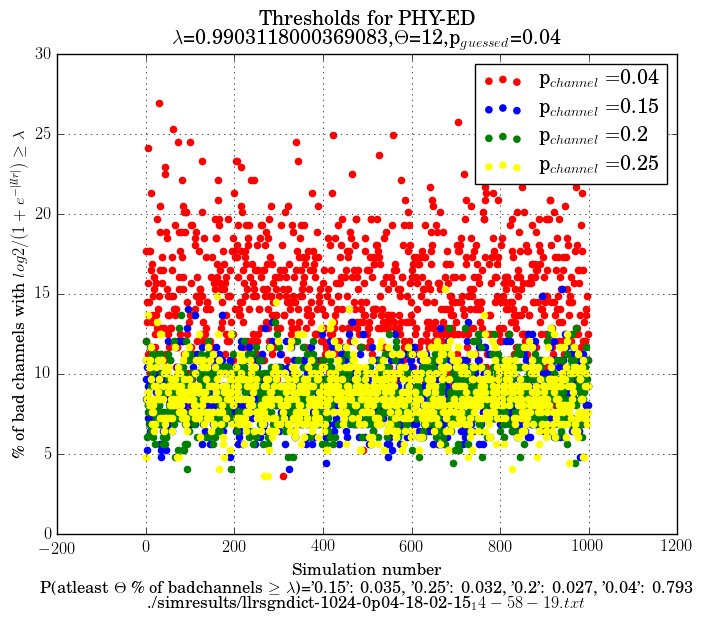
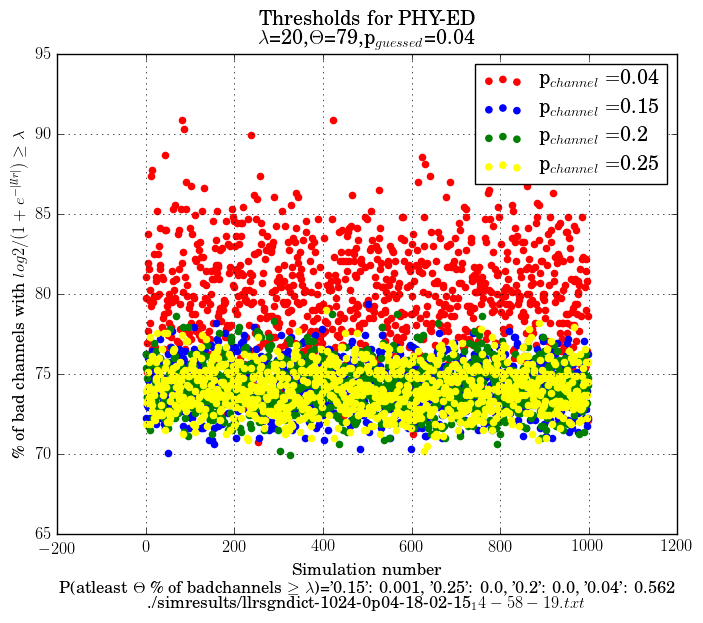
daily-autogit

diff --git a/Polar-slepian/V_15/lambdathreshold.py b/Polar-slepian/V_15/lambdathreshold.py
@@ -263,7 +263,32 @@ def perc_channel_Irv_WU(LLRdict,channel_plist,N,LT,G,runsim,use_bad,use_func_for
 			Fdict[str(channel_p)].append(float(num_channel)*100/len(LLRchannels))
 		
 	return Fdict
-
+#general function
+def perc_channel_func_Irv_WU(LLRdict,channel_plist,N,LT,G,runsim,f_llr,use_bad,use_func_for_LT):
+	#as I is a subsequence of RI , only G is needed
+	if use_func_for_LT:
+		LT=f_llr(LT)
+		print LT
+		
+	Fdict={}
+	for channel_p in channel_plist:
+		print "\nrunning for "+str(channel_p)+"..."
+		
+		Fdict[str(channel_p)]=[]	
+		for i in range(runsim):
+			if use_bad:
+				LLRchannels=LLRdict[str(channel_p)][i][0][G:]
+				SentBitchannels=LLRdict[str(channel_p)][i][1][G:]
+				#print SentBitchannels
+			else:
+				LLRchannels=LLRdict[str(channel_p)][i][0][:G]
+				SentBitchannels=LLRdict[str(channel_p)][i][1][:G]
+				
+			#num_channel=sum(f_Irv_abs(abs(llr)) >= LT for llr in LLRchannels)
+			num_channel=sum(f_llr(llr,int(sentbit)) >= LT for llr,sentbit in zip(LLRchannels,SentBitchannels))
+			Fdict[str(channel_p)].append(float(num_channel)*100/len(LLRchannels))
+		
+	return Fdict
 #returns  empirical average of f_Irv for the channels	
 def E_channel_Irv_WU(LLRdict,channel_plist,N,G,runsim):
 	#as I is a subsequence of RI , only G is needed
@@ -351,6 +376,12 @@ def f_Irv_abs(absllr):
 def f_Irv(llr,sentbit):
 	return (ma.log(2)-ml.logdomain_sum(0,-llr*(1-2*sentbit)))/ma.log(2)
 	 # unlike the theory here llr is p0/p1 s0 -llr
+
+def f_Irv_alt(llr,sentbit):
+	return -f_Irv(-llr,sentbit)
+	 
+
+
 
 #----------------------------------fuctions for implementation of rateless LTPT
 def perc_goodchannel_llr(llr,I,LT):

diff --git a/Polar-slepian/V_15/thetafinder.py b/Polar-slepian/V_15/thetafinder.py
@@ -46,12 +46,12 @@ G=int(C)
 #------------------------------------LT
 #G=250
 LT=float(np.log2(N)/N)
-LT=5
-PT=12
+LT=10
+PT=9
 print LT
 #absllr
-#Fdict=lmb.perc_channel_func_WD(LLRdict,channel_plist,N,LT,G,runsim,f_absllr=lmb.f_abs,use_bad=False,use_func_for_LT=True)
-#LT=lmb.f_abs(LT)
+Fdict=lmb.perc_channel_func_WD(LLRdict,channel_plist,N,LT,G,runsim,f_absllr=lmb.f_abs,use_bad=True,use_func_for_LT=True)
+LT=lmb.f_abs(LT)
 		
 #f_Irv
 #Fdict=lmb.perc_channel_Irv_WU(LLRdict,channel_plist,N,LT,G,runsim,use_bad=True,use_func_for_LT=True)
@@ -59,8 +59,12 @@ print LT
 
 
 #f_Irv_abs
-Fdict=lmb.perc_channel_func_WD(LLRdict,channel_plist,N,LT,G,runsim,f_absllr=lmb.f_Irv_abs,use_bad=True,use_func_for_LT=True)
-LT=lmb.f_Irv_abs(LT)
+#Fdict=lmb.perc_channel_func_WD(LLRdict,channel_plist,N,LT,G,runsim,f_absllr=lmb.f_Irv_abs,use_bad=True,use_func_for_LT=True)
+#LT=lmb.f_Irv_abs(LT)
+
+#f_Irv 
+#Fdict=lmb.perc_channel_func_Irv_WU(LLRdict,channel_plist,N,LT,G,runsim,f_llr=lmb.f_Irv_alt,use_bad=True,use_func_for_LT=False)
+#LT=lmb.f_Irv_abs(LT)
 
 Ppercdict=lmb.PrOffracaboveFT(Fdict,channel_plist,PT,runsim)
 print Ppercdict
@@ -76,8 +80,8 @@ for channel_p in channel_plist:
 
 
 
-#~ fnick="absllr-good"
-#~ f="$|LLR|"	
+fnick="absllr-bad"
+f="$|LLR|"	
 
 #~ fnick="f_Irv"
 #~ f="$log 2/(1+e^{-llr*(1-2u)})"
@@ -85,8 +89,8 @@ for channel_p in channel_plist:
 #~ fnick="f_Irv_rcv"
 #~ f="$log 2/(1+e^{-llr*(1-2r)})"
 
-fnick="f_Irv_abs"
-f="$log 2/(1+e^{-|llr|})"
+#~ fnick="f_Irv_abs"
+#~ f="$log 2/(1+e^{-|llr|})"
 
 #~ fnick="f_Irv_altered"
 #~ f="$-log 2/(1+e^{llr*(1-2u)})"

diff --git a/Polar-slepian/V_15/empirical_badcap.py b/Polar-slepian/V_15/empirical_badcap.py
@@ -47,11 +47,11 @@ F=N-G
 #------------------------------------LT
 #G=250
 #absllr
-#Edict=lmb.E_channel_abs_llr(LLRdict,channel_plist,N,G,runsim)
+Edict=lmb.E_channel_abs_llr(LLRdict,channel_plist,N,G,runsim)
 
 		
 #f_Irv
-Edict=lmb.E_channel_altIrv_WU(LLRdict,channel_plist,N,G,runsim)
+#Edict=lmb.E_channel_altIrv_WU(LLRdict,channel_plist,N,G,runsim)
 
 
 #f_Irv_abs
@@ -73,8 +73,8 @@ for i in range(F):
 	
 
 
-#fnick="absllr"
-#f="$|LLR|$"	
+fnick="absllr"
+f="$|LLR|$"	
 
 #~ fnick="f_Irv"
 #~ f="$log 2/(1+e^{-llr*(1-2u)})$"
@@ -85,8 +85,8 @@ for i in range(F):
 #~ fnick="f_Irv_abs"
 #~ f="$log 2/(1+e^{-|llr|})$"
 
-fnick="f_Irv_altered"
-f="$-log 2/(1+e^{llr*(1-2u)})$"
+#~ fnick="f_Irv_altered"
+#~ f="$-log 2/(1+e^{llr*(1-2u)})$"
 	
 
 
